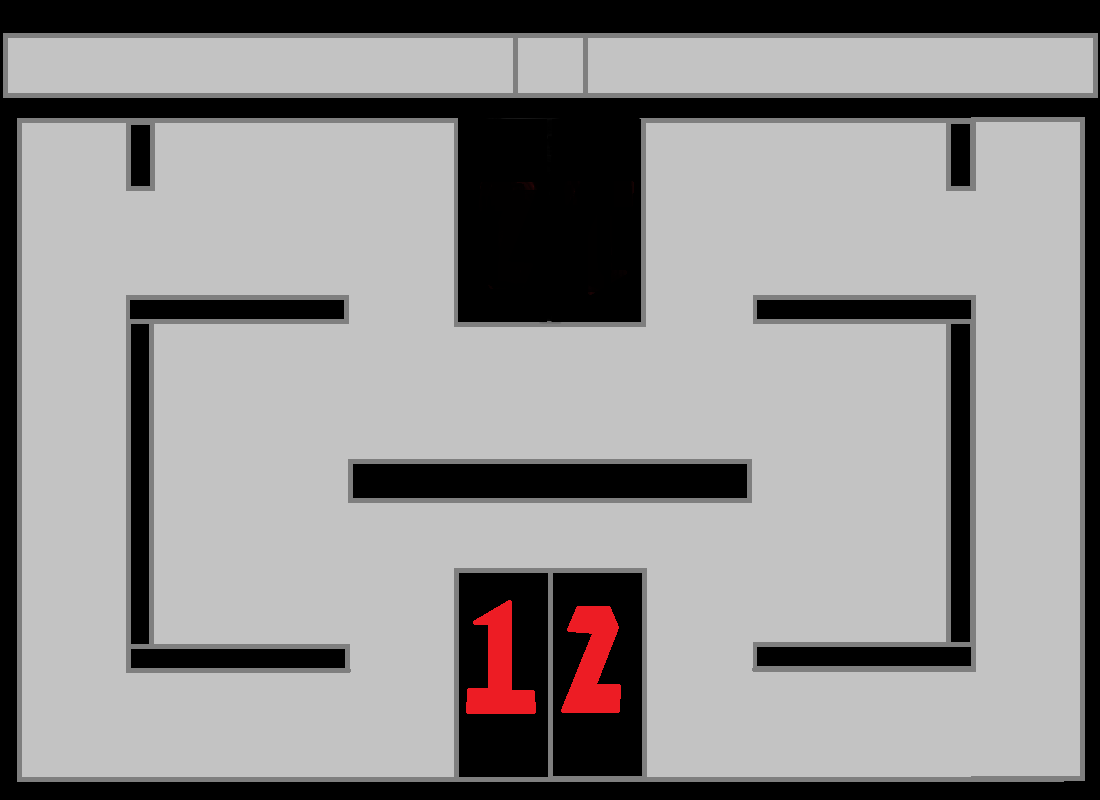
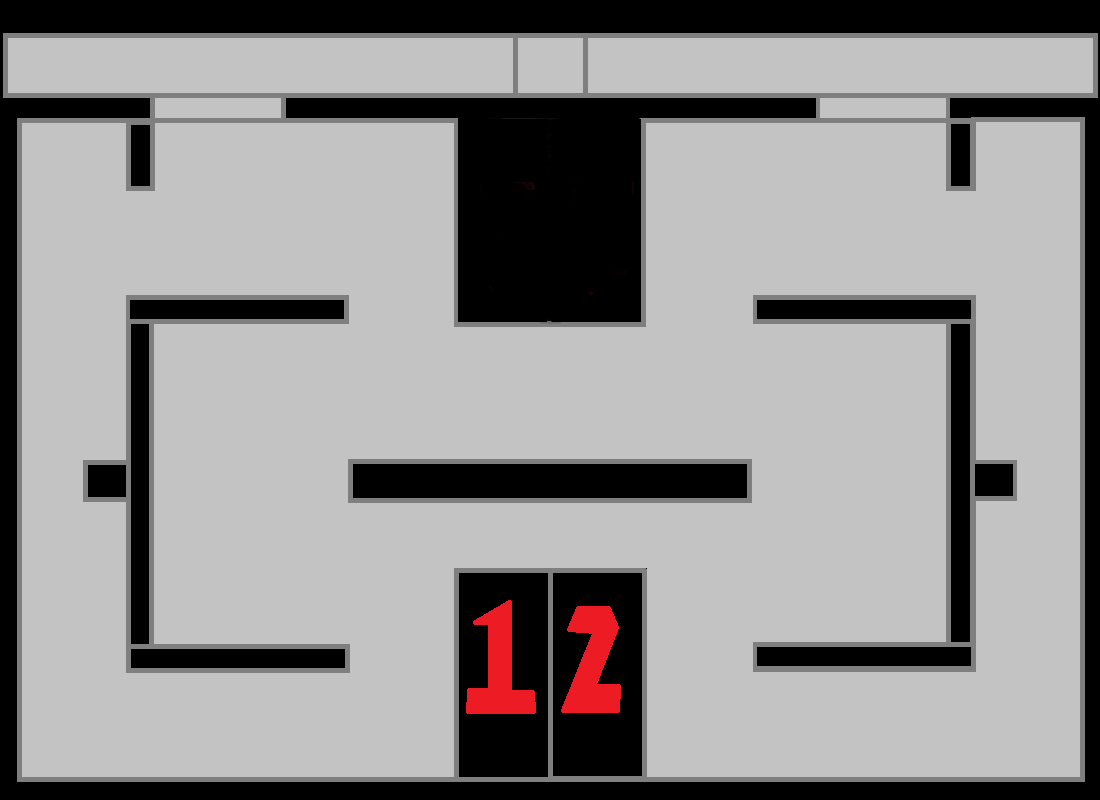
Fixed Maze Map

diff --git a/levels/Mazelevel.py b/levels/Mazelevel.py
@@ -7,12 +7,40 @@ class Mazelevel(Level):
     def __init__(self, screen, handler):
         super().__init__(screen, "media/Levels/Mazemap.png", handler)
 
-        self.p1 = Platform(screen, 21, 125, 130, 0)
-        self.p2 = Platform(screen, 220, 125, 650, 0)
-        self.p3 = Platform(screen, 945, 125, 135, 0)
+        self.p1 = Platform(screen, 127, 94, 28, 96)
+        self.p2 = Platform(screen, 946, 94, 29, 96)
+        self.p3 = Platform(screen, 281, 1, 538, 121)
+        self.p4 = Platform(screen, 454, 93, 191, 233)
+        self.p5 = Platform(screen, (0-100), 93, 154, 129)
+        self.p6 = Platform(screen, 946, 93, 154, 29)
+        self.p7 = Platform(screen, 126, 295, 222, 28)
+        self.p8 = Platform(screen, 753, 295, 222, 28)
+        self.p9 = Platform(screen, 348, 459, 403, 43)
+        self.p10 = Platform(screen, 126, 319, 33, 353)
+        self.p11 = Platform(screen, 126, 644, 223, 28)
+        self.p12 = Platform(screen, 946, 295, 32, 353)
+        self.p13 = Platform(screen, 753, 644, 223, 28)
+        self.p14 = Platform(screen, 454, 568, 192, 208)
+        self.p15 = Platform(screen, 21, 777, 2063, 24)
+        self.p16 = Platform(screen, 83, 460, 47, 41)
+        self.p17 = Platform(screen, 970, 460, 47, 41)
         self.platformGroup.add(self.p1)
         self.platformGroup.add(self.p2)
         self.platformGroup.add(self.p3)
+        self.platformGroup.add(self.p4)
+        self.platformGroup.add(self.p5)
+        self.platformGroup.add(self.p6)
+        self.platformGroup.add(self.p7)
+        self.platformGroup.add(self.p8)
+        self.platformGroup.add(self.p9)
+        self.platformGroup.add(self.p10)
+        self.platformGroup.add(self.p11)
+        self.platformGroup.add(self.p12)
+        self.platformGroup.add(self.p13)
+        self.platformGroup.add(self.p14)
+        self.platformGroup.add(self.p15)
+        self.platformGroup.add(self.p16)
+        self.platformGroup.add(self.p17)
 
     def update(self, screen):
         pass
